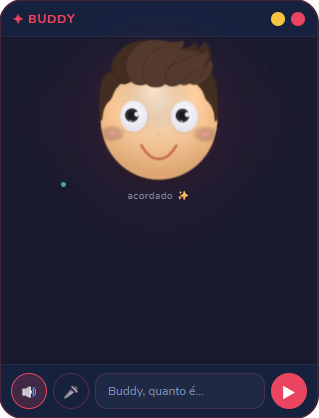
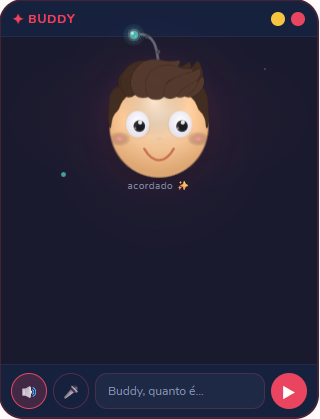
"feat-antenna-update"

diff --git a/index.html b/index.html
@@ -99,7 +99,7 @@
        AREA DO ROSTO (SVG)
        ============================================================ */
     #face-area {
-      height: 190px;
+      height: 160px;
       display: flex;
       align-items: center;
       justify-content: center;
@@ -124,8 +124,8 @@
 
     .face-glow {
       position: absolute;
-      width: 140px;
-      height: 140px;
+      width: 120px;
+      height: 120px;
       border-radius: 50%;
       background: radial-gradient(circle, rgba(233,69,96,0.15) 0%, transparent 70%);
       top: 50%;
@@ -510,7 +510,7 @@
     <div class="face-glow"></div>
 
     <div class="face-container" id="buddy-face">
-      <svg class="face-svg" width="140" height="210" viewBox="-2 -55 144 210" xmlns="http://www.w3.org/2000/svg">
+      <svg class="face-svg" width="130" height="170" viewBox="-2 -55 144 210" xmlns="http://www.w3.org/2000/svg">
         <defs>
           <radialGradient id="skin-grad" cx="50%" cy="40%" r="55%">
             <stop offset="0%" stop-color="#ffe8cc"/>
